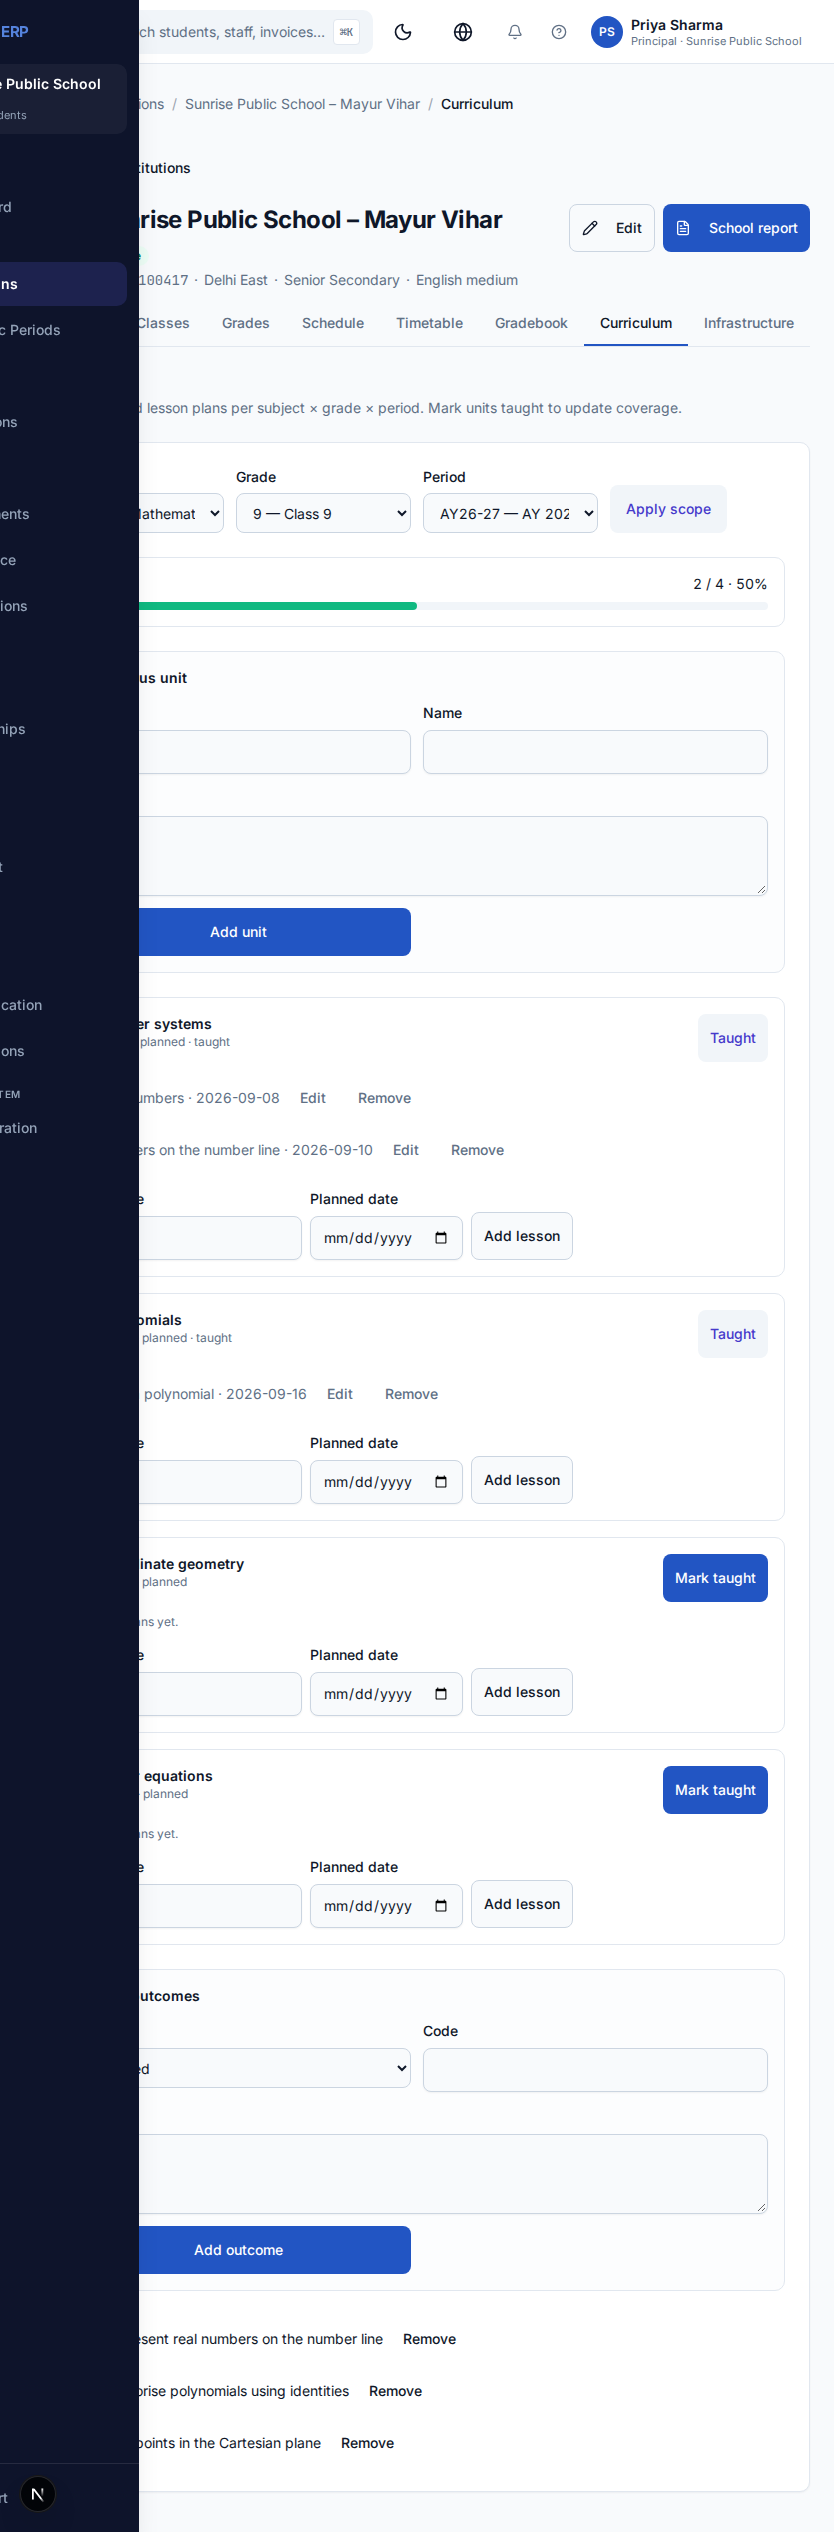
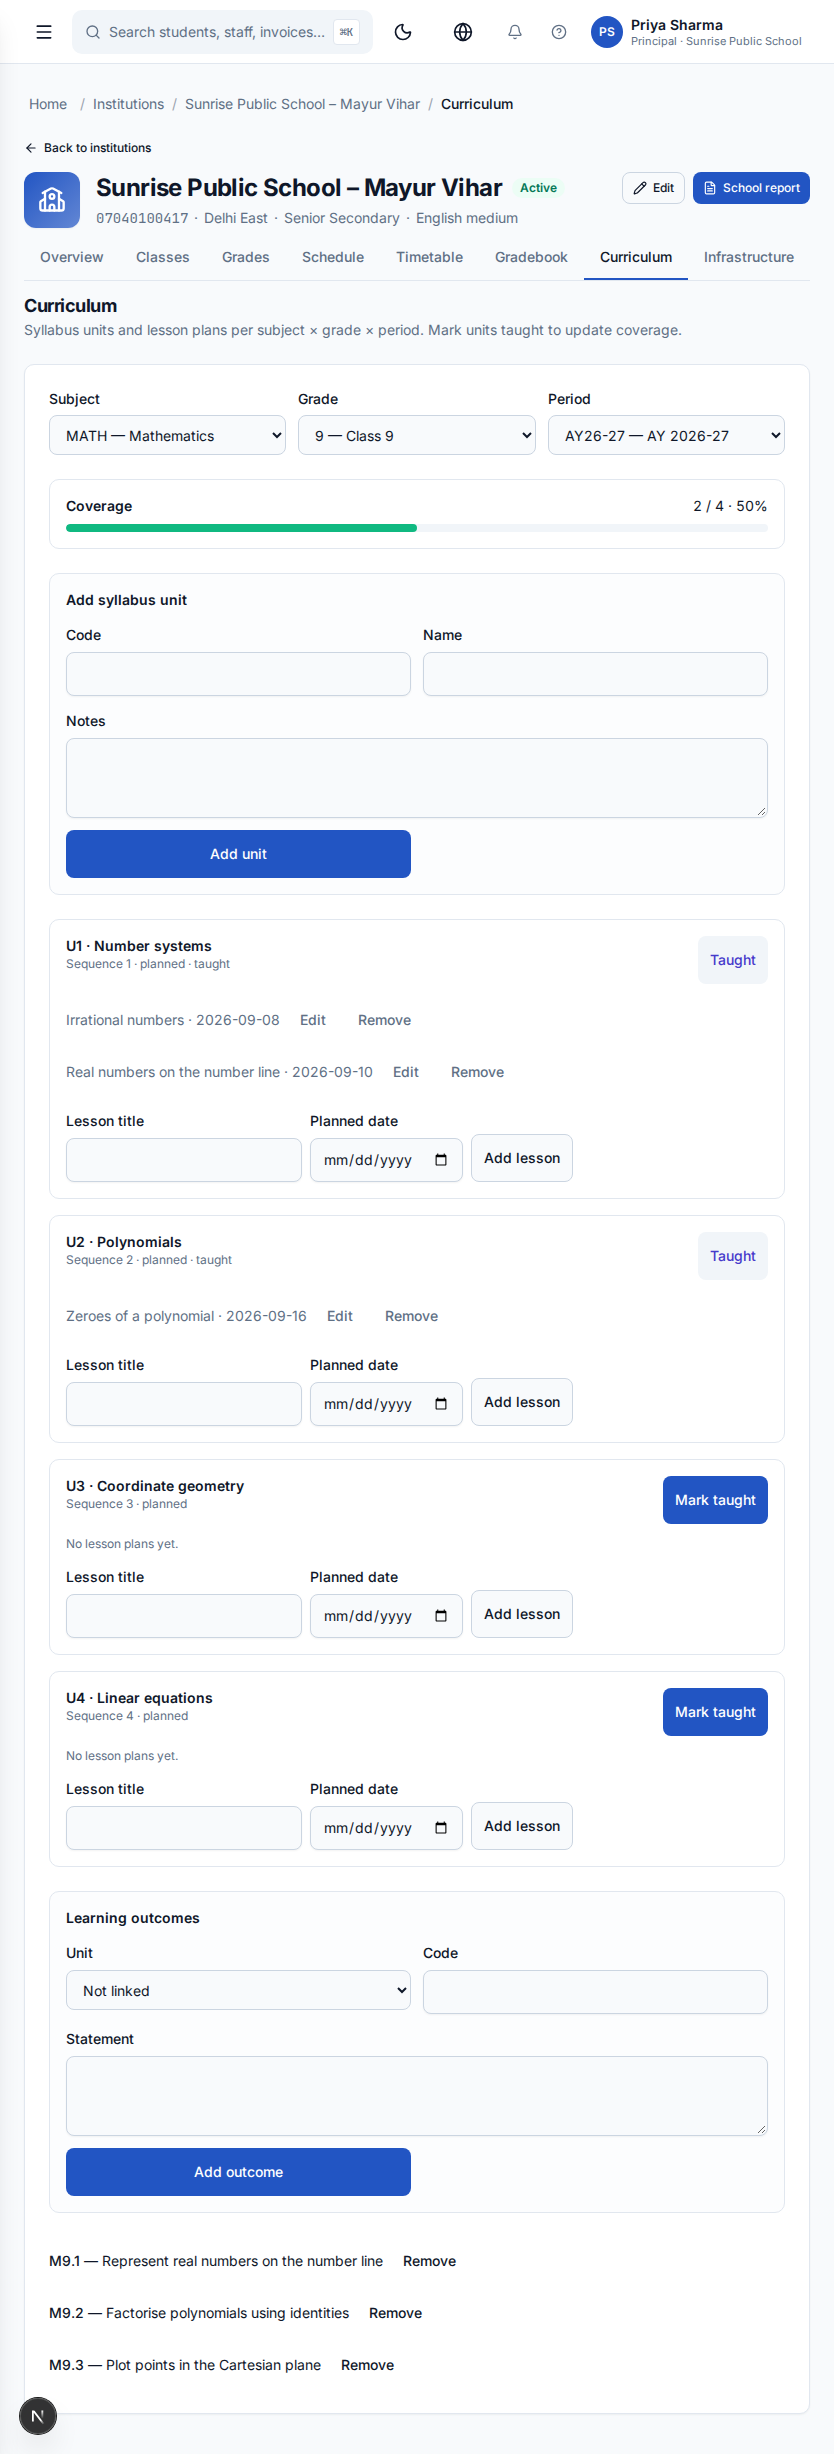
Recapture institution tabs on a clean Sunrise seed
Delete E2E rows after the Sunrise specs, wait for the loaded shell before screenshots, drop the redundant curriculum Apply scope control, and show repair requests as a table without capacity noise on every parent.

diff --git a/apps/web/e2e/16e-institutions-tabs-live.spec.ts b/apps/web/e2e/16e-institutions-tabs-live.spec.ts
@@ -11,6 +11,7 @@ const expect = playwrightExpect.configure({ timeout: 20_000 });
 
 import { setupGatewayTenantSession } from './fixtures/fake-session';
 import { runAxe } from './helpers/axe';
+import { cleanupSunriseE2E } from './helpers/sunrise-e2e-cleanup';
 
 const BACKEND_READY = process.env.E2E_BACKEND_READY === '1';
 const SUNRISE = '00000000-0000-4000-8000-00000000a501';
@@ -23,6 +24,12 @@ const CAPTURES = join(process.cwd(), '../../docs/audits/captures/institutions-ta
 test.describe('Institution detail tabs — Sunrise live', () => {
   test.skip(!BACKEND_READY, 'Requires E2E_BACKEND_READY=1, gateway, and the Sunrise seed');
   test.setTimeout(300_000);
+  test.beforeAll(() => {
+    cleanupSunriseE2E();
+  });
+  test.afterAll(() => {
+    cleanupSunriseE2E();
+  });
 
   test.beforeEach(async ({ page }) => {
     await setupGatewayTenantSession(page, {
@@ -51,8 +58,34 @@ test.describe('Institution detail tabs — Sunrise live', () => {
   });
 });
 
+async function waitForShell(page: Page, width: number) {
+  await expect(page.getByTestId('header-user-skeleton')).toHaveCount(0);
+  await expect(page.getByRole('heading', { name: /Mayur Vihar/ })).toBeVisible();
+  if (width >= 768) {
+    if (width < 1024) {
+      await page.getByRole('button', { name: 'Open navigation menu' }).click();
+    }
+    await expect(page.getByTestId('tenant-switcher-skeleton')).toHaveCount(0);
+    await expect(page.getByTestId('tenant-switcher')).toContainText('Delhi East');
+    await expect(page.getByTestId('tenant-switcher')).toContainText('1,240');
+    const crumb = page.getByRole('navigation', { name: 'Breadcrumb' });
+    await expect(crumb).toContainText('Mayur Vihar');
+    await expect(crumb).not.toContainText('00000000');
+    if (width < 1024) {
+      await page.getByRole('button', { name: 'Close navigation menu' }).click();
+      await expect(page.getByRole('button', { name: 'Close navigation menu' })).toHaveCount(0);
+      const drawer = page.locator('[data-shell="desktop"] > div').first();
+      await expect(drawer).toHaveAttribute('aria-hidden', 'true');
+      await expect
+        .poll(async () => drawer.evaluate((el) => Math.round(el.getBoundingClientRect().right)))
+        .toBeLessThanOrEqual(0);
+    }
+  }
+}
+
 async function shoot(page: Page, name: string, width: number) {
   await page.setViewportSize({ width, height: width < 500 ? 844 : 900 });
+  await waitForShell(page, width);
   const scroll = page.locator('[data-shell-scroll="page"]');
   await scroll.evaluate((el) => {
     el.scrollTop = 0;
@@ -62,10 +95,10 @@ async function shoot(page: Page, name: string, width: number) {
       const root = document.querySelector<HTMLElement>(
         '[data-testid="institution-gradebook"], [data-testid="institution-curriculum"], [data-testid="institution-infrastructure"]',
       );
-      return !root || root.offsetHeight > 400;
+      return Boolean(root && root.offsetHeight > 400);
     },
     undefined,
-    { timeout: 5_000 },
+    { timeout: 15_000 },
   );
   const scrollHeight = await scroll.evaluate((el) => el.scrollHeight);
   const chrome = width < 500 ? 160 : 80;
@@ -76,6 +109,12 @@ async function shoot(page: Page, name: string, width: number) {
   await scroll.evaluate((el) => {
     el.scrollTop = 0;
   });
+  if (width >= 768 && width < 1024) {
+    const drawer = page.locator('[data-shell="desktop"] > div').first();
+    await expect
+      .poll(async () => drawer.evaluate((el) => Math.round(el.getBoundingClientRect().right)))
+      .toBeLessThanOrEqual(0);
+  }
   await page.screenshot({
     path: join(CAPTURES, `${name}-${width}.png`),
     fullPage: true,
@@ -111,7 +150,12 @@ async function exerciseGradebook(page: Page, score: string, assessmentCode: stri
   await expect(root).toContainText('Aarav Mehta');
   await expect(root).not.toContainText('db/sql');
   await expect(root).not.toContainText('db/seeds');
+  await expect(root.getByText(/^E2E/)).toHaveCount(0);
+  await waitForShell(page, 1440);
   await runAxe(page);
+  await shoot(page, 'gradebook', 1440);
+  await shoot(page, 'gradebook', 834);
+  await shoot(page, 'gradebook', 390);
 
   const picker = page.locator('#gb-section');
   const labels = await picker.locator('option').allTextContents();
@@ -173,10 +217,6 @@ async function exerciseGradebook(page: Page, score: string, assessmentCode: stri
     page.getByTestId('grade-entry-row').filter({ hasText: assessmentCode }).first(),
   ).toContainText('Draft');
 
-  await shoot(page, 'gradebook', 1440);
-  await shoot(page, 'gradebook', 834);
-  await shoot(page, 'gradebook', 390);
-
   await page.goto(
     `/institutions/${MAYUR}/gradebook/report-cards/892236cc-f3d8-5458-8770-6ee2b83c47be`,
     { waitUntil: 'domcontentloaded' },
@@ -200,7 +240,21 @@ async function exerciseCurriculum(
   await waitHydrated(page, 'curriculum-panel');
   await expect(root).toContainText('Number systems');
   await expect(root).toContainText('M9.1');
+  await expect(page.getByTestId('curriculum-apply-scope')).toHaveCount(0);
+  await waitForShell(page, 1440);
   await runAxe(page);
+  await shoot(page, 'curriculum', 1440);
+  await shoot(page, 'curriculum', 834);
+  await shoot(page, 'curriculum', 390);
+
+  await page.setViewportSize({ width: 1440, height: 900 });
+  const grade = page.getByTestId('curriculum-grade').filter({ visible: true });
+  await grade.selectOption({ label: '8 — Class 8' });
+  await expect(page).toHaveURL(/gradeId=00000000-0000-4000-8000-00000000a541/);
+  await expect(page).not.toHaveURL(new RegExp(`gradeId=${GRADE9}`));
+  await grade.selectOption({ label: '9 — Class 9' });
+  await expect(page).toHaveURL(new RegExp(`gradeId=${GRADE9}`));
+  await waitHydrated(page, 'curriculum-panel');
 
   await page.locator('#unit-code').fill('U1');
   await page.locator('#unit-name').fill('Duplicate number systems');
@@ -257,10 +311,6 @@ async function exerciseCurriculum(
   await page.reload({ waitUntil: 'domcontentloaded' });
   await waitHydrated(page, 'curriculum-panel');
   await expect(page.getByText(outcome)).toHaveCount(0);
-
-  await shoot(page, 'curriculum', 1440);
-  await shoot(page, 'curriculum', 834);
-  await shoot(page, 'curriculum', 390);
 }
 
 async function exerciseInfrastructure(page: Page, roomName: string, repair: string) {
@@ -271,7 +321,15 @@ async function exerciseInfrastructure(page: Page, roomName: string, repair: stri
   await waitHydrated(page, 'facility-editor');
   await expect(root).toContainText('Room 204');
   await expect(root).toContainText('Chemistry lab L2');
+  await expect(root).not.toContainText('Declared');
+  await expect(root).toContainText('Ceiling tiles loose above the rear row');
+  await expect(page.getByTestId('repair-request-list')).toContainText('Room 204');
+  await expect(page.getByTestId('repair-request-list')).toContainText('open');
+  await waitForShell(page, 1440);
   await runAxe(page);
+  await shoot(page, 'infrastructure', 1440);
+  await shoot(page, 'infrastructure', 834);
+  await shoot(page, 'infrastructure', 390);
 
   await page.getByRole('link', { name: 'Room 204' }).click();
   await expect(page).toHaveURL(/#facility-/);
@@ -308,8 +366,4 @@ async function exerciseInfrastructure(page: Page, roomName: string, repair: stri
   const download = await downloadPromise;
   expect(await download.failure()).toBeNull();
   expect(download.suggestedFilename()).toMatch(/\.csv$/);
-
-  await shoot(page, 'infrastructure', 1440);
-  await shoot(page, 'infrastructure', 834);
-  await shoot(page, 'infrastructure', 390);
 }

diff --git a/apps/web/src/app/(dashboard)/institutions/[id]/infrastructure/page.tsx b/apps/web/src/app/(dashboard)/institutions/[id]/infrastructure/page.tsx
@@ -86,8 +86,8 @@ function InfraRow({
 }) {
   const repair = normCondition(condition) === 'repair';
   const mismatch =
-    childCapacity != null && childCapacity > 0 && childCapacity !== capacity
-      ? `Declared ${capacity.toLocaleString()} · parts total ${childCapacity.toLocaleString()}`
+    childCapacity != null && childCapacity > capacity
+      ? `Parts total ${childCapacity.toLocaleString()} exceeds declared ${capacity.toLocaleString()}`
       : null;
   return (
     <div
@@ -143,6 +143,32 @@ function repairTargets(hierarchy: InfrastructureHierarchy): Array<{ id: string; 
   return items;
 }
 
+function facilityNameMap(hierarchy: InfrastructureHierarchy): Map<string, string> {
+  const names = new Map<string, string>();
+  for (const land of hierarchy.lands) {
+    names.set(land.id, land.name);
+    for (const building of land.buildings) {
+      names.set(building.id, building.name);
+      for (const floor of building.floors) {
+        names.set(floor.id, floor.name);
+        for (const room of floor.rooms) names.set(room.id, room.name);
+      }
+    }
+  }
+  return names;
+}
+
+function formatRepairDate(iso: string): string {
+  const date = new Date(iso);
+  if (Number.isNaN(date.getTime())) return iso;
+  return new Intl.DateTimeFormat('en-IN', {
+    day: 'numeric',
+    month: 'short',
+    year: 'numeric',
+    timeZone: 'Asia/Kolkata',
+  }).format(date);
+}
+
 function countRepairs(hierarchy: InfrastructureHierarchy): number {
   let n = 0;
   for (const land of hierarchy.lands) {
@@ -169,10 +195,15 @@ export default async function InstitutionInfrastructurePage(props: Infrastructur
     id: string;
     summary: string;
     infrastructureId: string;
+    status: string;
+    createdAt: string;
   }>(`/infrastructure/repair-requests?institutionId=${encodeURIComponent(params.id)}`, {
     method: 'GET',
     cache: 'no-store',
   });
+  const facilityNames = result.error
+    ? new Map<string, string>()
+    : facilityNameMap(result.hierarchy as InfrastructureHierarchy);
   const repairs = result.error ? 0 : countRepairs(result.hierarchy as InfrastructureHierarchy);
 
   return (
@@ -225,11 +256,31 @@ export default async function InstitutionInfrastructurePage(props: Infrastructur
               />
             ) : null}
             {repairsList.ok && repairsList.items.length > 0 ? (
-              <ul className="mt-2 space-y-1 text-sm" data-testid="repair-request-list">
-                {repairsList.items.map((row) => (
-                  <li key={row.id}>{row.summary}</li>
-                ))}
-              </ul>
+              <table
+                className="mt-3 w-full border-collapse text-start text-sm"
+                data-testid="repair-request-list"
+              >
+                <thead>
+                  <tr className="text-amber-900 dark:text-amber-200">
+                    <th className="py-1 pe-3 font-semibold">Facility</th>
+                    <th className="py-1 pe-3 font-semibold">Request</th>
+                    <th className="py-1 pe-3 font-semibold">Date</th>
+                    <th className="py-1 font-semibold">Status</th>
+                  </tr>
+                </thead>
+                <tbody>
+                  {repairsList.items.map((row) => (
+                    <tr key={row.id} className="border-t border-amber-200/80 dark:border-amber-800">
+                      <td className="py-1 pe-3">
+                        {facilityNames.get(row.infrastructureId) ?? 'Unknown facility'}
+                      </td>
+                      <td className="py-1 pe-3">{row.summary}</td>
+                      <td className="py-1 pe-3 tabular-nums">{formatRepairDate(row.createdAt)}</td>
+                      <td className="py-1 capitalize">{row.status}</td>
+                    </tr>
+                  ))}
+                </tbody>
+              </table>
             ) : null}
             {!repairsList.ok ? (
               <p className="mt-2 text-sm" role="alert" data-testid="repair-request-error">

diff --git a/apps/web/e2e/helpers/sunrise-e2e-cleanup.ts b/apps/web/e2e/helpers/sunrise-e2e-cleanup.ts
@@ -1,0 +1,42 @@
+import { execFileSync } from 'node:child_process';
+
+const SUNRISE = '00000000-0000-4000-8000-00000000a501';
+
+/**
+ * Removes rows the Sunrise live specs tag with an E2E prefix, plus the
+ * Monday P1 Hindi meeting the timetable spec adds. The migrator role is
+ * required because institution_repair_requests is append-only for the app role.
+ */
+const CLEANUP_SQL = `
+BEGIN;
+SELECT set_config('app.tenant_id', '${SUNRISE}', true);
+ALTER TABLE grade_change_audit DISABLE TRIGGER trg_grade_change_audit_append_only;
+DELETE FROM grade_change_audit
+ WHERE grade_entry_id IN (
+   SELECT id FROM grade_entries
+    WHERE tenant_id = '${SUNRISE}' AND assessment_code LIKE 'E2E%'
+ );
+DELETE FROM grade_entries
+ WHERE tenant_id = '${SUNRISE}' AND assessment_code LIKE 'E2E%';
+ALTER TABLE grade_change_audit ENABLE TRIGGER trg_grade_change_audit_append_only;
+DELETE FROM institution_repair_requests
+ WHERE tenant_id = '${SUNRISE}' AND summary LIKE 'E2E %';
+DELETE FROM institution_infrastructure
+ WHERE tenant_id = '${SUNRISE}' AND name LIKE 'E2E Room %';
+DELETE FROM lesson_plans
+ WHERE tenant_id = '${SUNRISE}' AND title LIKE 'E2E lesson %';
+DELETE FROM learning_outcomes
+ WHERE tenant_id = '${SUNRISE}' AND statement = 'E2E outcome statement';
+DELETE FROM section_meetings
+ WHERE tenant_id = '${SUNRISE}'
+   AND section_id = uuid_generate_v5('6ba7b810-9dad-11d1-80b4-00c04fd430c8'::uuid, 'sunrise-section-g9b-hin')
+   AND day_of_week = 1
+   AND bell_period_id = uuid_generate_v5('6ba7b810-9dad-11d1-80b4-00c04fd430c8'::uuid, 'sunrise-period-mv-1');
+COMMIT;
+`;
+
+export function cleanupSunriseE2E(): void {
+  const url = process.env.MIGRATOR_DATABASE_URL;
+  if (!url) return;
+  execFileSync('psql', [url, '-v', 'ON_ERROR_STOP=1', '-c', CLEANUP_SQL], { stdio: 'inherit' });
+}

diff --git a/apps/web/src/components/institutions/curriculum-panel.tsx b/apps/web/src/components/institutions/curriculum-panel.tsx
@@ -105,7 +105,7 @@ export function CurriculumPanel({
       data-testid="curriculum-panel"
       data-hydrated={hydrated ? 'true' : 'false'}
     >
-      <div className="grid gap-3 sm:grid-cols-4">
+      <div className="grid gap-3 sm:grid-cols-3">
         <label className="space-y-1.5 text-sm">
           <span className="font-medium">Subject</span>
           <select
@@ -154,16 +154,6 @@ export function CurriculumPanel({
             ))}
           </select>
         </label>
-        <div className="flex items-end">
-          <Button
-            type="button"
-            variant="secondary"
-            data-testid="curriculum-apply-scope"
-            onClick={() => pushScope(scope)}
-          >
-            Apply scope
-          </Button>
-        </div>
       </div>
 
       <div

diff --git a/apps/web/e2e/16e-institutions-timetable-write-smoke.spec.ts b/apps/web/e2e/16e-institutions-timetable-write-smoke.spec.ts
@@ -6,6 +6,7 @@ import { expect, test } from '@playwright/test';
 
 import { setupGatewayTenantSession } from './fixtures/fake-session';
 import { runAxe } from './helpers/axe';
+import { cleanupSunriseE2E } from './helpers/sunrise-e2e-cleanup';
 
 const BACKEND_READY = process.env.E2E_BACKEND_READY === '1';
 const SUNRISE = '00000000-0000-4000-8000-00000000a501';
@@ -13,6 +14,9 @@ const MAYUR = '00000000-0000-4000-8000-00000000a551';
 
 test.describe('Institutions timetable — Sunrise live', () => {
   test.skip(!BACKEND_READY, 'Requires E2E_BACKEND_READY=1, gateway, and the Sunrise seed');
+  test.afterAll(() => {
+    cleanupSunriseE2E();
+  });
 
   test.beforeEach(async ({ page }) => {
     await setupGatewayTenantSession(page, {
